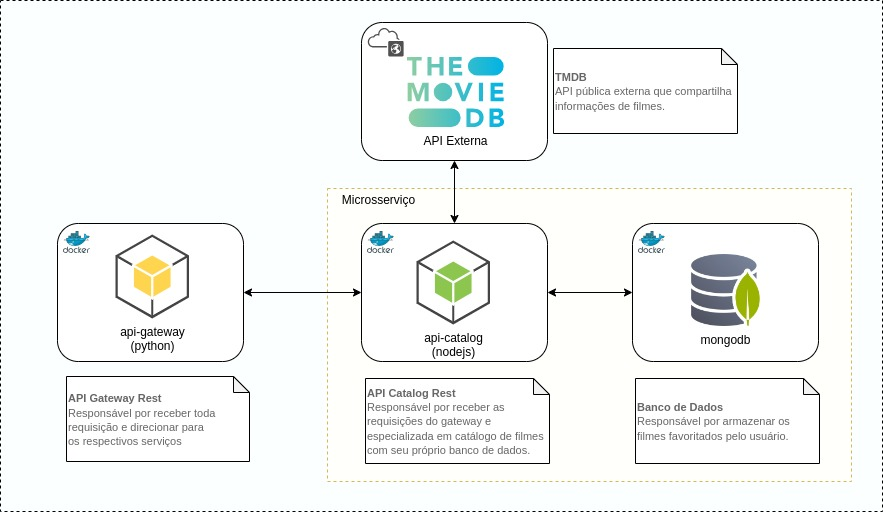
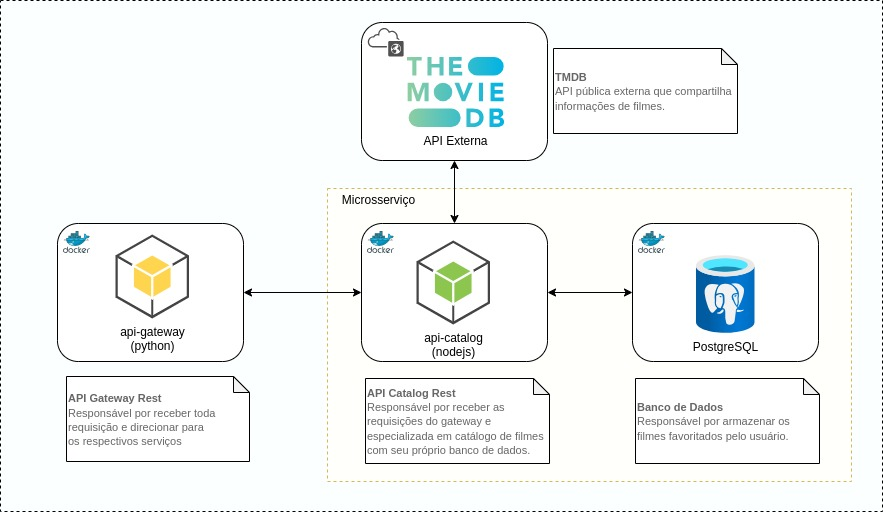
Atualiza documentação e aplica health check no postgres

Changed region(s): [[0.7644, 0.5, 0.8867, 0.6875]]

diff --git a/README.md b/README.md
@@ -1,6 +1,6 @@
 # API de Catálogo de Filmes
 
-Esta é uma API de Catálogo Filmes que permite listar filmes populares do TMDB, adicionar filmes favoritos, atualizar informações de filmes, deletar filmes e listar seus filmes favoritos. A API utiliza Node.js, Express, MongoDB e Swagger para documentação.
+Esta é uma API de Catálogo Filmes que permite listar filmes populares do TMDB, adicionar filmes favoritos, atualizar informações de filmes, deletar filmes e listar seus filmes favoritos. A API utiliza Node.js, Express, PostgreSQL e Swagger para documentação.
 
 ## Instruções de Instalação
 
@@ -27,9 +27,12 @@ cd movie-api-catalog
 
 - No diretório raiz do projeto, crie um arquivo .env com as seguintes variáveis:
 ```
-DB_URL=mongodb://localhost:27017/filmesdb
 PORT=3000
-TMDB_API_KEY=SuaChaveDeAPIDoTMDB
+TMDB_API_KEY=
+POSTGRES_USER=user
+POSTGRES_PASSWORD=senha
+POSTGRES_DB=filmesdb
+DATABASE_URL=localhost
 ```
 
 - Instale as dependências:
@@ -37,10 +40,10 @@ TMDB_API_KEY=SuaChaveDeAPIDoTMDB
 npm install
 ```
 
-- Inicie o Mongodb com Docker Compose:
+- Inicie o PostgreSQL com Docker Compose:
 Execute o arquivo docker-compose.yml no diretório raiz do projeto 
 ```
-docker compose  -f "docker-compose.yml" up -d --build mongodb
+docker compose  -f "docker-compose.yml" up -d --build postgres
 ```
 
 - Comandos Úteis para rodar localmente
@@ -54,9 +57,12 @@ npm start
 
 - No diretório raiz do projeto, crie um arquivo .env com as seguintes variáveis:
 ```
-DB_URL=mongodb://mongodb:27017/filmesdb
 PORT=3000
-TMDB_API_KEY=SuaChaveDeAPIDoTMDB
+TMDB_API_KEY=
+POSTGRES_USER=user
+POSTGRES_PASSWORD=senha
+POSTGRES_DB=filmesdb
+DATABASE_URL=localhost
 ```
 
 - Inicie os serviços do Docker com Docker Compose:
